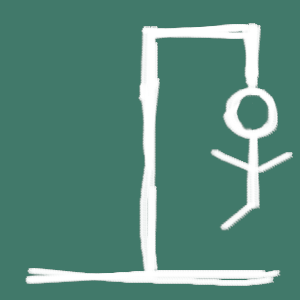
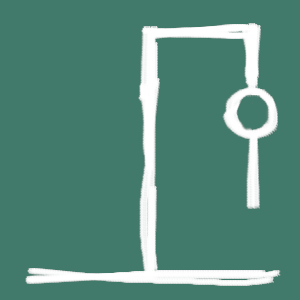
commit funcoes de iniciar game

Changed region(s): [[0.69, 0.48, 0.99, 0.57], [0.72, 0.66, 0.84, 0.78]]

diff --git a/src/index.js b/src/index.js
@@ -1,13 +1,31 @@
 import { Jogo } from './jogo.js';
+import { Cronometro } from './cronometro.js';
 
 const keys = ['Q','W','E','R','T','Y','U','I','O','P','A','S','D','F','G','H','J','K','L','Ç','Z','X','C','V','B','N','M',]
 
 const tentativas = 0;
-const wrongLettersArray = []
-const correctLetters = []
+let wrongLettersArray = []
+let correctLetters = []
 let vidas = 0;
 //let highScore = getHighScoreFromLocalStorage() | persistHighScoreOnLocalStorage();
 
+
+function convertObjToJSON(obj) {
+    return JSON.stringify(obj);
+}
+
+function persistGame(game){
+    const gameJSON = convertObjToJSON(game)
+    localStorage.setItem('game', gameJSON);
+}
+
+function getGame(){
+    return JSON.parse(localStorage.get('game'));
+}
+
+function removeGame() {
+    return localStorage.removeItem('game');
+}
 
 function getHighScoreFromLocalStorage() {
     return localStorage.getItem('highScore') | 0
@@ -107,10 +125,10 @@ function submitWord(event,charArray){
                 const component = generateWrongLetterComponent(word)
                 wrongLetters.innerHTML += component
                 wrongLettersArray.push(word)
-                vidas +=1;
-                if(vidas <= 6){
-    
-                    updateForca(vidas)
+                jogo.jogador.perdeVida();
+                if(jogo.jogador.vidas > 0){
+                
+                    updateForca(jogo.jogador.vidas)
     
                 }else{
                     
@@ -121,6 +139,7 @@ function submitWord(event,charArray){
             }
     
         }
+        persistGame(jogo);
     }else{
         const msg = document.querySelector('.msgError');
         const p = document.createElement('p')
@@ -150,6 +169,12 @@ function gameOver(){
 
     const forca = document.querySelector('#forca')
     forca.src = `./assets/gameOver.png`
+
+    const msg = document.querySelector('.msgError');
+    const p = document.createElement('p')
+    p.innerText = 'GAME OVER'
+
+    msg.appendChild(p)
 
 }
 
@@ -203,15 +228,39 @@ function isLetter(str) {
 
 const form = document.getElementById('jogo');
 const nickname = document.getElementById('nickname');
+const resetButton = document.getElementById("resetButton")
 form.addEventListener('reset', (event) => novoJogo(event, nickname));
 form.addEventListener('submit', (event) => recuperaJogo(event, nickname));
+resetButton.addEventListener('click', () => document.location.reload())
+
+
+let jogo = undefined;
 
 let novoJogo = (event, nickname) => {
+    
+    removeGame();
+    //console.log(jogo.jogador);
+    wrongLettersArray = [];
+    correctLetters = [];
     console.log(nickname.value);
-    let jogo = new Jogo();
+    jogo = new Jogo();
+
+    const cronometro = new Cronometro();
+
+
     jogo.iniciarJogo(nickname.value).then(() => {
 
-        const arrayPalavraSecreta = jogo.arrayPalavraSecreta();
+    let arrayPalavraSecreta = jogo.arrayPalavraSecreta();
+    generateForca(arrayPalavraSecreta);
+    insertKeysToKeyboard();
+    
+    cronometro.start();
+    setInterval(() => {
+        persistHighScoreOnLocalStorage(cronometro.convertToSeconds());
+        displayHighScore();
+    }, 1000)
+
+        arrayPalavraSecreta = jogo.arrayPalavraSecreta();
         displayHighScore();
         generateForca(arrayPalavraSecreta);
         insertKeysToKeyboard();
@@ -220,6 +269,7 @@ let novoJogo = (event, nickname) => {
         inicializaTela(arrayPalavraSecreta);
     });
 }
+
 
 let recuperaJogo = (event, nickname) => {
     alert("Recuper");
@@ -232,4 +282,4 @@ function inicializaTela(arrayPalavraSecreta) {
     const form = document.querySelector('.interface');
     console.log(form);
     form.addEventListener('submit', (event) => submitWord(event, arrayPalavraSecreta));
-}
+};

diff --git a/index.html b/index.html
@@ -17,6 +17,7 @@
         <input id="nickname" type="text">
         <button id="iniciarButton" type="reset">Iniciar Jogo</button>
         <button id="carregarButton" type="submit">Recuperar Jogo</button>
+        <button id="resetButton" type="reset">Reiniciar</button>
     </form>
     <div class="container">
         <img src="./assets/outraForca.png" alt="Forca" id="forca">
@@ -43,5 +44,6 @@
 <script type="module" src="./src/pessoa.js"></script>
 <script type="module" src="./src/jogador.js"></script>
 <script type="module" src="./src/jogo.js"></script>
+<script type="module" src="./src/cronometro.js"></script>
 <script type="module" src="./src/index.js"></script>
 </html>

diff --git a/src/jogo.js b/src/jogo.js
@@ -8,6 +8,8 @@ class Jogo {
         this.highScore;
         this.tentativas;
         this.palavras = [];
+        this.correct = [];
+        this.incorrect = new Set();
     }
 
     iniciarJogo(nickName) {
@@ -52,6 +54,14 @@ class Jogo {
 
     arrayPalavraSecreta = () => {
         return this.#palavraSecreta.split("");
+    }
+
+    addCorrect(value) {
+        this.correct.push(value);
+    }
+
+    addIncorrect(value) {
+        this.correct.add(value);
     }
 }
 

diff --git a/src/cronometro.js b/src/cronometro.js
@@ -1,4 +1,4 @@
-class Cronometro {
+export class Cronometro {
     constructor() {
         this.control;
         this.horas = 0
